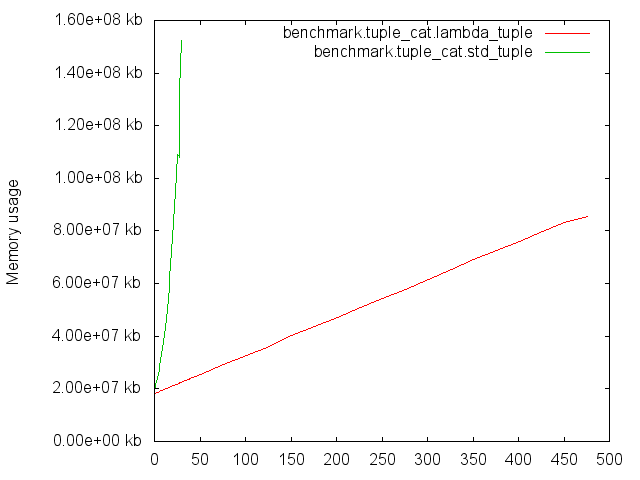
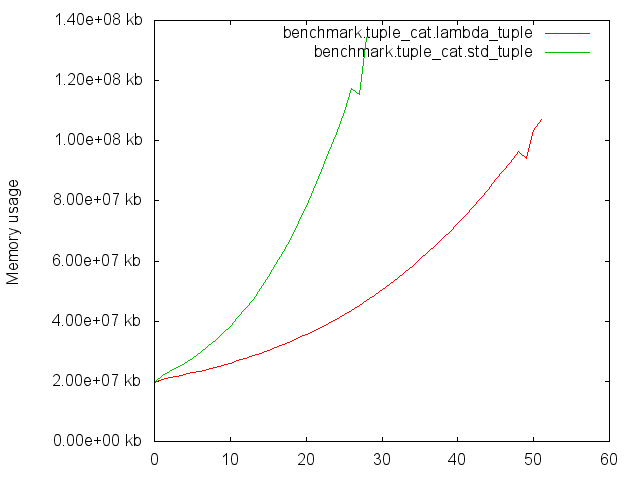
Remove biases from benchmarks

diff --git a/code/benchmark/tuple_cat.cpp b/code/benchmark/tuple_cat.cpp
@@ -1,5 +1,8 @@
 
-#include "../<%=technique%>.hpp"
+#include "../lambda_tuple.hpp"
+#include "../std_tuple.hpp"
+
+<%= setup %>
 
 
 template <int i>
@@ -9,13 +12,22 @@ template <int i>
 struct y { };
 
 int main() {
-    auto xs = make_tuple(
+    other::make_tuple(
         <%= (1..n_elements).to_a.map{ |i| "x<#{i}>{}" }.join(',') %>
     );
 
-    auto ys = make_tuple(
+    other::make_tuple(
         <%= (1..n_elements).to_a.map{ |i| "y<#{i}>{}" }.join(',') %>
     );
 
-    tuple_cat(xs, ys);
+
+    auto xs = benchmark::make_tuple(
+        <%= (1..n_elements).to_a.map{ |i| "x<#{i}>{}" }.join(',') %>
+    );
+
+    auto ys = benchmark::make_tuple(
+        <%= (1..n_elements).to_a.map{ |i| "y<#{i}>{}" }.join(',') %>
+    );
+
+    benchmark::tuple_cat(xs, ys);
 }

diff --git a/code/benchmark/get.cpp b/code/benchmark/get.cpp
@@ -1,16 +1,24 @@
 
-#include "../<%=technique%>.hpp"
+#include "../lambda_tuple.hpp"
+#include "../std_tuple.hpp"
+
+<%= setup %>
 
 
 template <int i>
 struct x { };
 
 int main() {
-    auto xs = make_tuple(
+    other::make_tuple(
+        <%= (1..n_elements+1).to_a.map{ |i| "x<#{i}>{}" }.join(',') %>
+    );
+
+    auto xs = benchmark::make_tuple(
         // Make sure we use a non-empty tuple.
         <%= (1..n_elements+1).to_a.map{ |i| "x<#{i}>{}" }.join(',') %>
     );
-    // Fetch in the middle of the sequence.
-    constexpr auto n = <%= (n_elements+1) / 2 %>;
-    get<n>(xs);
+
+    <% (0..n_elements).each do |i| %>
+        benchmark::get< <%=i%> >(xs);
+    <% end %>
 }

diff --git a/code/benchmark/tuple_transform.cpp b/code/benchmark/tuple_transform.cpp
@@ -1,16 +1,25 @@
 
-#include "../<%=technique%>.hpp"
+#include "../lambda_tuple.hpp"
+#include "../std_tuple.hpp"
+
+<%= setup %>
 
 
 template <int i>
 struct x { };
 
 int main() {
-    auto xs = make_tuple(
+    other::make_tuple(
         <%= (1..n_elements).to_a.map{ |i| "x<#{i}>{}" }.join(',') %>
     );
 
-    tuple_transform(xs, [](auto x) {
-        return x;
-    });
+    auto xs = benchmark::make_tuple(
+        <%= (1..n_elements).to_a.map{ |i| "x<#{i}>{}" }.join(',') %>
+    );
+
+    <% 10.times do %>
+        benchmark::tuple_transform(xs, [](auto x) {
+            return x;
+        });
+    <% end %>
 }

diff --git a/code/benchmark/apply.cpp b/code/benchmark/apply.cpp
@@ -1,14 +1,23 @@
 
-#include "../<%=technique%>.hpp"
+#include "../lambda_tuple.hpp"
+#include "../std_tuple.hpp"
+
+<%= setup %>
 
 
 template <int i>
 struct x { };
 
 int main() {
-    auto xs = make_tuple(
+    other::make_tuple(
         <%= (1..n_elements).to_a.map{ |i| "x<#{i}>{}" }.join(',') %>
     );
-    auto f = [](auto ...x) { };
-    apply(f, xs);
+
+    auto xs = benchmark::make_tuple(
+        <%= (1..n_elements).to_a.map{ |i| "x<#{i}>{}" }.join(',') %>
+    );
+
+    <% 10.times do %>
+        benchmark::apply([](auto ...x) { }, xs);
+    <% end %>
 }

diff --git a/code/std_tuple.hpp b/code/std_tuple.hpp
@@ -9,6 +9,7 @@
 #include <utility>
 
 
+namespace standard {
 //////////////////////////////////////////////////////////////////////////////
 // std::tuple and std::make_tuple
 //////////////////////////////////////////////////////////////////////////////
@@ -62,5 +63,6 @@ constexpr decltype(auto) apply(F&& f, Tuple&& ts) {
         >{}
     );
 }
+} // end namespace standard
 
 #endif

diff --git a/code/lambda_tuple.hpp b/code/lambda_tuple.hpp
@@ -9,6 +9,7 @@
 #include <utility>
 
 
+namespace lambda {
 //////////////////////////////////////////////////////////////////////////////
 // std::tuple and std::make_tuple
 //////////////////////////////////////////////////////////////////////////////
@@ -111,5 +112,6 @@ template <typename Tuple, typename F>
         }
     );
 }
+} // end namespace lambda
 
 #endif

diff --git a/code/benchmark/make_tuple.cpp b/code/benchmark/make_tuple.cpp
@@ -1,12 +1,15 @@
 
-#include "../<%=technique%>.hpp"
+#include "../lambda_tuple.hpp"
+#include "../std_tuple.hpp"
+
+<%= setup %>
 
 
 template <int i>
 struct x { };
 
 int main() {
-    auto xs = make_tuple(
+    auto xs = benchmark::make_tuple(
         <%= (1..n_elements).to_a.map{ |i| "x<#{i}>{}" }.join(',') %>
     );
 }

diff --git a/code/lambda_tuple.cpp b/code/lambda_tuple.cpp
@@ -3,6 +3,8 @@
 #include <cassert>
 
 
+using namespace lambda;
+
 int main() {
     // tuple
     tuple<int, char, double> ts{1, '2', 3.3};
